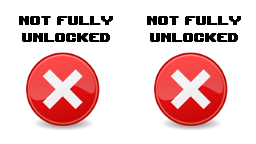
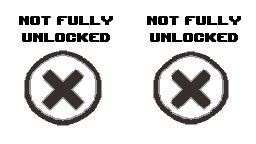
v0.2.54

Changed region(s): [[0.0938, 0.3333, 0.4062, 0.9167], [0.5938, 0.3333, 0.9062, 0.9167]]

diff --git a/HISTORY.md b/HISTORY.md
@@ -2,7 +2,11 @@
 
 Note that the Racing+ Mod version will almost always match the client version. This means that the version number of the mod may increase, but have no actual new in-game changes. All gameplay related changes will be listed below.
 
-* *0.2.50* - Unreleased
+* *0.2.54* - Unreleased
+  * Fast-clear now works with puzzle rooms.
+  * Fixed a Larry Jr. room that should not have an entrance from the top.
+  * Added better save file graphics, thanks to Gromfalloon.
+* *0.2.53* - February 27th
   * Holding R on Eden no longer kills her.
   * The "drop" button will now immediately drop cards and trinkets. (This won't happen if you have the School Bag, Starter Deck, Little Baggy, Deep Pockets, or Polydactyly.)
   * Fixed the Strength card on Keeper. Note that it will only permanently give you a coin container if you are at 0 or less base coin containers.
@@ -24,7 +28,7 @@ Note that the Racing+ Mod version will almost always match the client version. T
   * Cleaned up the door placements on some miscellaneous I AM ERROR rooms to ensure that the player always teleports to an intended location.
   * Fixed the I AM ERROR room without any entrances.
   * Fast-clear has been recoded to fix the bug where the doors would open if you killed two splitting enemies at the same time.
-  * The title screen has been updated to a beautiful new one created by Gromfaloon.
+  * The title screen has been updated to a beautiful new one created by Gromfalloon.
   * Fixed some more out of bounds entities.
   * Fixed an asymmetric Scarred Guts on a Womb/Utero L room (#757).
   * Fixed a Little Horn room (#1095) where there was only a narrow entrance to the top and bottom doors.

diff --git a/CHANGES-ROOM.md b/CHANGES-ROOM.md
@@ -492,21 +492,28 @@ The changed room is as follows:
 
 <br />
 
-### I AM ERROR Door Fixes
+### I AM ERROR Door/Entrance Fixes
 
 On several I AM ERROR rooms, objects overlap with the doors, which can cause unavoidable damage in certain situations.
 
 The changed rooms are as follows:
-* #1, #5, #9, #11, #17, #21, #23, #24, #27 (removed doors)
+* 
 * #14 (deleted poops)
-* #15 (added doors)
+* #15 (added doors) 
 * #26 (moved pickups)
 
 <br />
 
+### Door Fixes
 
+On certain rooms, doors were poorly placed so that they overlap with entities or objects.
 
+The changed rooms are as follows:
 
+* I AM ERROR: #1, #5, #9, #11, #17, #21, #23, #24, #27 (removed doors)
+* Boss: #1125 (Larry Jr.)
+
+<br />
 
 ## Room Changes - Miscellaneous
 
